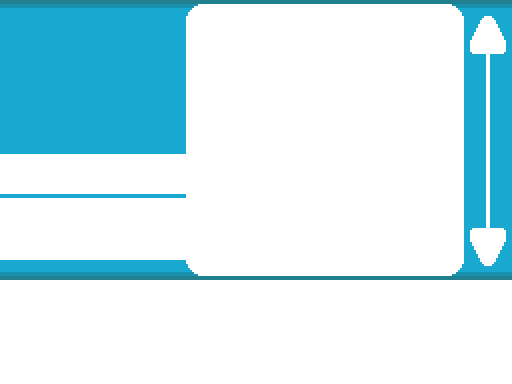
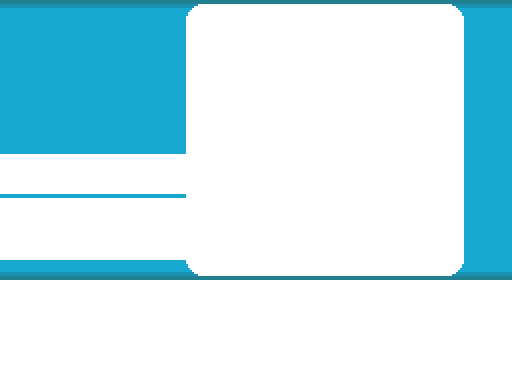
Bag pocket expansion pt. 3

Changed region(s): [[0.9062, 0.0312, 1.0, 0.6875]]

diff --git a/Plugins/Tectonic Graphics and UI/Menus/Item Bag/PokemonBag_Scene.rb b/Plugins/Tectonic Graphics and UI/Menus/Item Bag/PokemonBag_Scene.rb
@@ -16,16 +16,16 @@ class PokemonBag_Scene
       @filterproc = filterproc
       pbRefreshFilter
       lastpocket = startingPocket || @bag.lastpocket
-      numfilledpockets = @bag.pockets.length-1
+      @numfilledpockets = @bag.pockets.length-1
       if @choosing
-        numfilledpockets = 0
-        if @filterlist!=nil
+        @numfilledpockets = 0
+        if @filterlist != nil
           for i in 1...@bag.pockets.length
-            numfilledpockets += 1 if @filterlist[i].length>0
+            @numfilledpockets += 1 if @filterlist[i].length>0
           end
         else
           for i in 1...@bag.pockets.length
-            numfilledpockets += 1 if @bag.pockets[i].length>0
+            @numfilledpockets += 1 if @bag.pockets[i].length>0
           end
         end
         lastpocket = (resetpocket) ? 1 : (startingPocket || @bag.lastpocket)
@@ -42,7 +42,9 @@ class PokemonBag_Scene
       end
       @bag.lastpocket = lastpocket
       @sliderbitmap = AnimatedBitmap.new(addLanguageSuffix(("Graphics/Pictures/Bag/icon_slider")))
+      @slider_inactive_bitmap = AnimatedBitmap.new(addLanguageSuffix(("Graphics/Pictures/Bag/slider_inactive")))
       @pocketbitmap = AnimatedBitmap.new(addLanguageSuffix(("Graphics/Pictures/Bag/icon_pocket")))
+      @pocket_unselected_bitmap = AnimatedBitmap.new(addLanguageSuffix(("Graphics/Pictures/Bag/icon_pocket_unselected")))
       @pocket_unused_bitmap = AnimatedBitmap.new(addLanguageSuffix(("Graphics/Pictures/Bag/icon_pocket_empty")))
       @sprites = {}
       @sprites["background"] = IconSprite.new(0,0,@viewport)
@@ -52,16 +54,6 @@ class PokemonBag_Scene
       @sprites["pocketicon"] = BitmapSprite.new(186,52,@viewport)
       @sprites["pocketicon"].x = 0
       @sprites["pocketicon"].y = 202
-      @sprites["leftarrow"] = AnimatedSprite.new("Graphics/Pictures/leftarrow",8,40,28,2,@viewport)
-      @sprites["leftarrow"].x       = -4
-      @sprites["leftarrow"].y       = 76
-      @sprites["leftarrow"].visible = (!@choosing || numfilledpockets>1)
-      @sprites["leftarrow"].play
-      @sprites["rightarrow"] = AnimatedSprite.new("Graphics/Pictures/rightarrow",8,40,28,2,@viewport)
-      @sprites["rightarrow"].x       = 150
-      @sprites["rightarrow"].y       = 76
-      @sprites["rightarrow"].visible = (!@choosing || numfilledpockets>1)
-      @sprites["rightarrow"].play
       @sprites["itemlist"] = Window_PokemonBag.new(@bag,@filterlist,lastpocket,168,-8,314,40+32+ITEMSVISIBLE*32)
       @sprites["itemlist"].viewport    = @viewport
       @sprites["itemlist"].pocket      = lastpocket
@@ -101,7 +93,9 @@ class PokemonBag_Scene
       @oldsprites = nil
       pbDisposeSpriteHash(@sprites)
       @sliderbitmap.dispose
+      @slider_inactive_bitmap.dispose
       @pocketbitmap.dispose
+      @pocket_unselected_bitmap.dispose
       @pocket_unused_bitmap.dispose
       @viewport.dispose
     end
@@ -128,15 +122,19 @@ class PokemonBag_Scene
       bg_path += "_dark" if darkMode?
       @sprites["background"].setBitmap(bg_path)
       # Set the background color
-      bg_color_path = sprintf("Graphics/Pictures/Bag/bg_color_#{@bag.lastpocket % 8}")
+      bg_color_path = sprintf("Graphics/Pictures/Bag/bg_color_#{@bag.lastpocket % 8 + 1}")
       @sprites["background_color"].setBitmap(bg_color_path)
       # Draw the pocket icons
       @sprites["pocketicon"].bitmap.clear
+      bitmapWidth = @pocket_unselected_bitmap.bitmap.width
+      bitmapHeight = @pocket_unselected_bitmap.bitmap.height
+      @sprites["pocketicon"].bitmap.blt(6,6,@pocket_unselected_bitmap.bitmap,Rect.new(0,0,bitmapWidth/2,bitmapHeight))
+      @sprites["pocketicon"].bitmap.blt(6,6+bitmapHeight+2,@pocket_unselected_bitmap.bitmap,Rect.new(bitmapWidth/2,0,bitmapWidth/2,bitmapHeight))
       if @choosing && @filterlist
         for i in 1...@bag.pockets.length
-          if @filterlist[i].length==0
-            @sprites["pocketicon"].bitmap.blt(6+((i-1))*22,6,
-               @pocket_unused_bitmap.bitmap,Rect.new(((i-1) % 8)*20,((i-1) / 8) * 22,20,20))
+          if @filterlist[i].length == 0
+            rect = Rect.new((i-1)*20,0,20,20)
+            @sprites["pocketicon"].bitmap.blt(6+((i-1) % 8)*22, 6+((i-1) / 8) * 20, @pocket_unused_bitmap.bitmap, rect)
           end
         end
       end
@@ -158,32 +156,36 @@ class PokemonBag_Scene
       pbDrawTextPositions(overlay,[
          [PokemonBag.pocketNames[@bag.lastpocket],94,150,2,MessageConfig::DARK_TEXT_MAIN_COLOR,MessageConfig::DARK_TEXT_SHADOW_COLOR]
       ])
-      # Draw slider arrows
-      showslider = false
-      if itemlist.top_row>0
-        overlay.blt(470,16,@sliderbitmap.bitmap,Rect.new(0,0,36,38))
-        showslider = true
-      end
-      if itemlist.top_item+itemlist.page_item_max<itemlist.itemCount
-        overlay.blt(470,228,@sliderbitmap.bitmap,Rect.new(0,38,36,38))
-        showslider = true
-      end
-      # Draw slider box
-      if showslider
-        sliderheight = 174
-        boxheight = (sliderheight*itemlist.page_row_max/itemlist.row_max).floor
-        boxheight += [(sliderheight-boxheight)/2,sliderheight/6].min
-        boxheight = [boxheight.floor,38].max
-        y = 54
-        y += ((sliderheight-boxheight)*itemlist.top_row/(itemlist.row_max-itemlist.page_row_max)).floor
-        overlay.blt(470,y,@sliderbitmap.bitmap,Rect.new(36,0,36,4))
-        i = 0
-        while i*16<boxheight-4-18
-          height = [boxheight-4-18-i*16,16].min
-          overlay.blt(470,y+4+i*16,@sliderbitmap.bitmap,Rect.new(36,4,36,height))
-          i += 1
+      if itemlist.active
+        overlay.blt(470,16,@slider_inactive_bitmap.bitmap,Rect.new(0,0,36,250))
+
+        # Draw slider arrows
+        showslider = false
+        if itemlist.top_row>0
+          overlay.blt(470,16,@sliderbitmap.bitmap,Rect.new(0,0,36,38))
+          showslider = true
         end
-        overlay.blt(470,y+boxheight-18,@sliderbitmap.bitmap,Rect.new(36,20,36,18))
+        if itemlist.top_item+itemlist.page_item_max<itemlist.itemCount
+          overlay.blt(470,228,@sliderbitmap.bitmap,Rect.new(0,38,36,38))
+          showslider = true
+        end
+        # Draw slider box
+        if showslider
+          sliderheight = 174
+          boxheight = (sliderheight*itemlist.page_row_max/itemlist.row_max).floor
+          boxheight += [(sliderheight-boxheight)/2,sliderheight/6].min
+          boxheight = [boxheight.floor,38].max
+          y = 54
+          y += ((sliderheight-boxheight)*itemlist.top_row/(itemlist.row_max-itemlist.page_row_max)).floor
+          overlay.blt(470,y,@sliderbitmap.bitmap,Rect.new(36,0,36,4))
+          i = 0
+          while i*16<boxheight-4-18
+            height = [boxheight-4-18-i*16,16].min
+            overlay.blt(470,y+4+i*16,@sliderbitmap.bitmap,Rect.new(36,4,36,height))
+            i += 1
+          end
+          overlay.blt(470,y+boxheight-18,@sliderbitmap.bitmap,Rect.new(36,20,36,18))
+        end
       end
       # Set the selected item's icon
       @sprites["itemicon"].item = itemlist.item
@@ -206,13 +208,95 @@ class PokemonBag_Scene
     end
   
     # Called when the item screen wants an item to be chosen from the screen
-    def pbChooseItem
-        pocketSelected = false
+    def pbChooseItem(openPocketImmediately = false)
+        openPocketImmediately = true if @filterlist && @numfilledpockets == 1
+
         @sprites["helpwindow"].visible = false
+        itemwindow = @sprites["itemlist"]
+        
+
+        newpocket = itemwindow.pocket
+
+        # Select pocket
+        loop do
+          Graphics.update unless openPocketImmediately
+          Input.update
+
+          if Input.trigger?(Input::LEFT)
+            loop do
+              newpocket = (newpocket==1) ? PokemonBag.numPockets : newpocket-1
+              break if !@choosing || newpocket==itemwindow.pocket
+              if @filterlist
+                break if @filterlist[newpocket].length > 0
+              else
+                break if @bag.pockets[newpocket].length > 0
+              end
+            end
+          elsif Input.trigger?(Input::RIGHT)
+            loop do
+              newpocket = (newpocket==PokemonBag.numPockets) ? 1 : newpocket+1
+              break if !@choosing || newpocket==itemwindow.pocket
+              if @filterlist
+                break if @filterlist[newpocket].length > 0
+              else
+                break if @bag.pockets[newpocket].length > 0
+              end
+            end
+          elsif Input.trigger?(Input::UP)
+            pocketCandidate = newpocket >= 9 ? newpocket - 8 : newpocket + 8
+            if @filterlist
+              newpocket = pocketCandidate if @filterlist[pocketCandidate].length > 0
+            else
+              newpocket = pocketCandidate
+            end
+          elsif Input.trigger?(Input::DOWN)
+            pocketCandidate = newpocket < 9 ? newpocket + 8 : newpocket - 8
+            if @filterlist
+              newpocket = pocketCandidate if @filterlist[pocketCandidate].length > 0
+            else
+              newpocket = pocketCandidate
+            end
+          elsif Input.trigger?(Input::BACK)   # Cancel the item screen
+            pbPlayCloseMenuSE
+            return nil
+          elsif Input.trigger?(Input::USE) || openPocketImmediately   # Choose item from pocket
+            if @filterlist
+              valid = @filterlist[newpocket].length > 0
+            else
+              valid = @bag.pockets[newpocket].length > 0
+            end
+            if valid
+              pbPlayDecisionSE unless openPocketImmediately
+              openPocketImmediately = false
+              selection = pbChooseItemEx
+              if selection
+                return selection
+              elsif @filterlist && @numfilledpockets == 1
+                return nil
+              end
+              pbRefresh
+            else
+              pbPlayBuzzerSE
+            end
+          end
+
+          # Update bag selection
+          if itemwindow.pocket != newpocket
+            itemwindow.pocket = newpocket
+            @bag.lastpocket   = itemwindow.pocket
+            pbPlayCursorSE
+            pbRefresh
+          end
+        end
+      end
+
+      def pbChooseItemEx
         itemwindow = @sprites["itemlist"]
         thispocket = @bag.pockets[itemwindow.pocket]
         swapinitialpos = -1
+
         pbActivateWindow(@sprites,"itemlist") {
+          pbRefresh
           loop do
             oldindex = itemwindow.index
             Graphics.update
@@ -243,71 +327,24 @@ class PokemonBag_Scene
                 pbPlayCancelSE
                 pbRefresh
               end
-            else
-              # Change pockets
-              newpocket = itemwindow.pocket
-              if Input.trigger?(Input::LEFT)
-                loop do
-                  newpocket = (newpocket==1) ? PokemonBag.numPockets : newpocket-1
-                  break if !@choosing || newpocket==itemwindow.pocket
-                  if @filterlist
-                    break if @filterlist[newpocket].length>0
-                  else
-                    break if @bag.pockets[newpocket].length>0
-                  end
+            elsif Input.trigger?(Input::ACTION)   # Start switching the selected item
+              if !@choosing
+                if thispocket.length>1 && itemwindow.index < thispocket.length &&
+                    $Options.bag_sorting == 0
+                  itemwindow.sorting = true
+                  swapinitialpos = itemwindow.index
+                  pbPlayDecisionSE
+                  pbRefresh
+                else
+                  pbPlayBuzzerSE
                 end
-              elsif Input.trigger?(Input::RIGHT)
-                loop do
-                  newpocket = (newpocket==PokemonBag.numPockets) ? 1 : newpocket+1
-                  break if !@choosing || newpocket==itemwindow.pocket
-                  if @filterlist
-                    break if @filterlist[newpocket].length>0
-                  else
-                    break if @bag.pockets[newpocket].length>0
-                  end
-                end
-              # elsif Input.trigger?(Input::JUMPUP)
-              #   potentialNewPocket = newpocket >= 9 ? newpocket - 8 : newpocket + 8
-              #   if @filterlist
-              #     newpocket = potentialNewPocket if @filterlist[potentialNewPocket].length>0
-              #   else
-              #     newpocket = potentialNewPocket
-              #   end
-              # elsif Input.trigger?(Input::JUMPDOWN)
-              #   potentialNewPocket = newpocket <= 8 ? newpocket + 8 : newpocket - 8
-              #   if @filterlist
-              #     newpocket = potentialNewPocket if @filterlist[potentialNewPocket].length>0
-              #   else
-              #     newpocket = potentialNewPocket
-              #   end
-              elsif Input.trigger?(Input::ACTION)   # Start switching the selected item
-                if !@choosing
-                  if thispocket.length>1 && itemwindow.index < thispocket.length &&
-                      $Options.bag_sorting == 0
-                    itemwindow.sorting = true
-                    swapinitialpos = itemwindow.index
-                    pbPlayDecisionSE
-                    pbRefresh
-                  else
-                    pbPlayBuzzerSE
-                  end
-                end
-              elsif Input.trigger?(Input::BACK)   # Cancel the item screen
-                pbPlayCloseMenuSE
-                return nil
-              elsif Input.trigger?(Input::USE)   # Choose selected item
-                (itemwindow.item) ? pbPlayDecisionSE : pbPlayCloseMenuSE
-                return itemwindow.item
               end
-
-              # Update bag selection
-              if itemwindow.pocket != newpocket
-                itemwindow.pocket = newpocket
-                @bag.lastpocket   = itemwindow.pocket
-                thispocket = @bag.pockets[itemwindow.pocket]
-                pbPlayCursorSE
-                pbRefresh
-              end
+            elsif Input.trigger?(Input::BACK)   # Cancel the item screen
+              pbPlayCloseMenuSE
+              return nil
+            elsif Input.trigger?(Input::USE)   # Choose selected item
+              (itemwindow.item) ? pbPlayDecisionSE : pbPlayCloseMenuSE
+              return itemwindow.item
             end
           end
         }

diff --git a/Plugins/Tectonic Graphics and UI/Menus/Item Bag/PokemonBag_Screne.rb b/Plugins/Tectonic Graphics and UI/Menus/Item Bag/PokemonBag_Screne.rb
@@ -10,16 +10,19 @@ class PokemonBagScreen
     def pbStartScreen
         @scene.pbStartScene(@bag)
         item = nil
+
+        openPocketImmediately = false
+        
         loop do
-          item = @scene.pbChooseItem
+          item = @scene.pbChooseItem(openPocketImmediately)
           break if !item
           itm = GameData::Item.get(item)
-          cmdRead     = -1
           cmdUse      = -1
           cmdRegister = -1
           cmdGive     = -1
           cmdToss     = -1
           cmdDebug    = -1
+          cmdCancel   = -1
           commands = []
           # Generate command list
           canUseAsTM = itm.is_machine? && $Trainer.party.length > 0
@@ -38,10 +41,11 @@ class PokemonBagScreen
             commands[cmdRegister = commands.length] = _INTL("Register")
           end
           commands[cmdDebug = commands.length]      = _INTL("Debug") if $DEBUG
-          commands[commands.length]                 = _INTL("Cancel")
+          commands[cmdCancel = commands.length]     = _INTL("Cancel")
           # Show commands generated above
           itemname = itm.name
           command = @scene.pbShowCommands(_INTL("{1} is selected.",itemname),commands)
+          openPocketImmediately = true unless command == cmdCancel
           if cmdUse>=0 && command==cmdUse   # Use item
             if (ItemHandlers.hasUseOnPokemon(item) || canUseAsTM) && !teamEditingAllowed?()
               showNoTeamEditingMessage()

diff --git a/Plugins/Tectonic Graphics and UI/Menus/Item Bag/Window_PokemonBag.rb b/Plugins/Tectonic Graphics and UI/Menus/Item Bag/Window_PokemonBag.rb
@@ -66,7 +66,7 @@ class Window_PokemonBag < Window_DrawableCommand
           rect = Rect.new(rect.x+16,rect.y+16,rect.width-16,rect.height)
           thispocket = @bag.pockets[@pocket]
           if index==self.itemCount-1
-            textpos.push([_INTL("CLOSE BAG"),rect.x,rect.y-2,false,self.baseColor,self.shadowColor])
+            textpos.push([_INTL("CLOSE POCKET"),rect.x,rect.y-2,false,self.baseColor,self.shadowColor])
           else
             item = (@filterlist) ? thispocket[@filterlist[@pocket][index]][0] : thispocket[index][0]
             baseColor   = self.baseColor
@@ -110,7 +110,7 @@ class Window_PokemonBag < Window_DrawableCommand
         next if i<self.top_item-1 || i>self.top_item+self.page_item_max
         drawItem(i,@item_max,itemRect(i))
       end
-      drawCursor(self.index,itemRect(self.index))
+      drawCursor(self.index,itemRect(self.index)) if @active
     end
   
     def update

diff --git a/Plugins/Tectonic Game Data/Compiled Data/Item.rb b/Plugins/Tectonic Game Data/Compiled Data/Item.rb
@@ -287,7 +287,7 @@ module GameData
         return false
       end
   
-      def can_hold?;           return !is_important? && @pocket == 5; end
+      def can_hold?;           return !is_important? && @pocket >= 9 && @pocket <= 13; end
 
       def consumed_after_use?
         return !is_important? && @consumable
